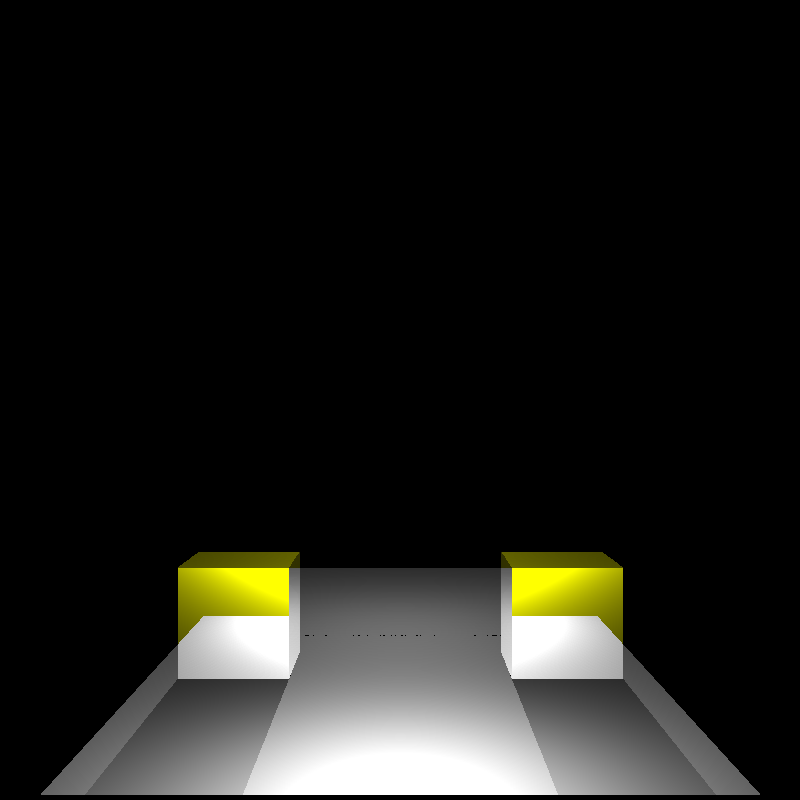
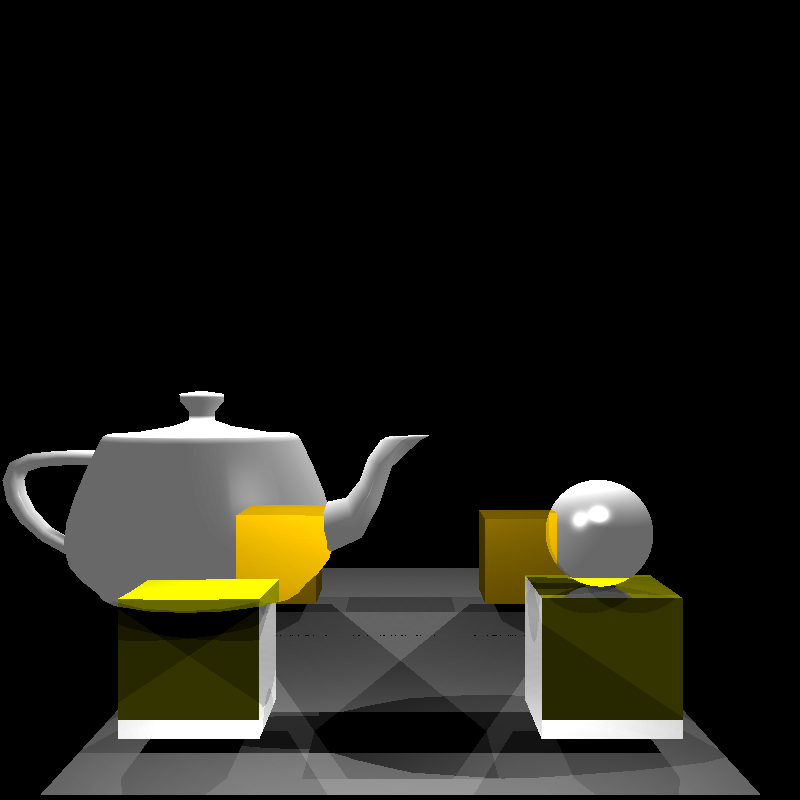
scene-02

Changed region(s): [[0.0, 0.4688, 0.875, 1.0]]

diff --git a/src/aemn/raytracer/Raytracer.java b/src/aemn/raytracer/Raytracer.java
@@ -37,45 +37,44 @@ public class Raytracer {
 		System.out.println(new Date());
 
 		Scene scene01 = new Scene();
-
-		/**************** Scene 01****************/
-		// Scene Configuration
-		scene01.setCamera(new Camera(new Vector3D(0, 0, -8), 160, 160, 800, 800, 0f, 50f));
-		scene01.addLight(new PointLight(new Vector3D(-3, 2.0, 0), new LambertMat(Color.WHITE, 500, 0, 0)));
-		// Scene OBJs
-
-		scene01.addObject(OBJReader.GetPolygon("smallTeapot.obj", new Vector3D(0, -2.5, 1.5),
-				new LambertMat(Color.ORANGE, 0, 5, 0.1f)));
-		scene01.addObject(OBJReader.GetPolygon("panel.obj", new Vector3D(0, -2.5, 1.5),
-				new ReflectiveMat(Color.WHITE, 0, 5, 0.1f)));
-		scene01.addObject(OBJReader.GetPolygon("Cube.obj", new Vector3D(2, -2.5, 1.5),
-				new RefractiveMat(Color.WHITE, 0, 5, 0.1f, 1.5)));
-		// Scene Objects
-		scene01.addObject(
-				new Sphere(new Vector3D(-2.0, -2.0, 1.5), 0.5, new ReflectiveMat(Color.PINK, 0, 15, 0.5f)));
-		scene01.addObject(
-				new Sphere(new Vector3D(2.0, -2.0, 1.5), 0.3, new ReflectiveMat(Color.WHITE, 0, 50, 0.5f)));
-		scene01.addObject(
-				new Sphere(new Vector3D(0.3, -.8, -3), 0.4, new RefractiveMat(Color.WHITE, 0, 5, 0.5f, 1.5)));
-
-		/****************** SCENE FINISH ****************/
-		/**************** Scene 01****************/
+		/**************** Scene 02****************/
 		// Scene Configuration
 		Scene scene02 = new Scene();
 		scene02.setCamera(new Camera(new Vector3D(0, 0, -8), 160, 160, 800, 800, 0f, 50f));
-		scene02.addLight(new PointLight(new Vector3D(0, 1.0, 0), new LambertMat(Color.WHITE, 400, 0, 0)));
-		scene02.addLight(new PointLight(new Vector3D(0, 1.0, 4.5), new LambertMat(Color.WHITE, 400, 0, 0)));
+		//scene02.addLight(new PointLight(new Vector3D(0, 1.0, 5), new LambertMat(Color.WHITE, 400, 0, 0)));
+		
 		// Scene OBJs
 		scene02.addObject(OBJReader.GetPolygon("panel.obj", new Vector3D(0, -2.5, 1),
 				new LambertMat(Color.WHITE, 0, 5, 0.1f)));
 		scene02.addObject(OBJReader.GetPolygon("panel.obj", new Vector3D(0, -2.5, 5.5),
 				new LambertMat(Color.WHITE, 0, 5, 0.1f)));
-		scene02.addObject(OBJReader.GetPolygon("Cube.obj", new Vector3D(-1.5, -2.5, 2),
-				new ReflectiveMat(Color.YELLOW, 0, 5, 0.1f)));
-		scene02.addObject(OBJReader.GetPolygon("Cube.obj", new Vector3D(1.5, -2.5, 2),
-				new ReflectiveMat(Color.YELLOW, 0, 5, 0.1f)));
+		
+		/** First Showroom **/
+		scene02.addLight(new PointLight(new Vector3D(-1.5, 1, 0), new LambertMat(Color.WHITE, 200, 0, 0)));
+		scene02.addObject(OBJReader.GetPolygon("Cube.obj", new Vector3D(-1.5, -2.4, 0),
+				new ReflectiveMat(Color.YELLOW, 0.0, 5.0, 0.1f)));
+		scene02.addObject(OBJReader.GetPolygon("smallTeapot.obj", new Vector3D(-1.5, -1.5, 0),
+				new RefractiveMat(Color.WHITE, 0.0, 75.0, 0.1f, 1.5)));
+		
+		/** Second Showroom **/
+		scene02.addLight(new PointLight(new Vector3D(1.5, 1.0, 0.0), new LambertMat(Color.WHITE, 200, 0, 0)));
+		scene02.addObject(OBJReader.GetPolygon("Cube.obj", new Vector3D(1.5, -2.4, 0),
+				new ReflectiveMat(Color.YELLOW, 0, 5.0, 0.1f)));
+		scene02.addObject(new Sphere(new Vector3D(1.5, -1.0, 0), 0.4, new RefractiveMat(Color.WHITE, 0, 75, 0.1f, 1.5)));
+		
+		/** Third Showroom **/
+		scene02.addLight(new PointLight(new Vector3D(1.5, 1.0, 5), new LambertMat(Color.WHITE, 200, 0, 0)));
+		scene02.addObject(OBJReader.GetPolygon("Cube.obj", new Vector3D(1.5, -2.4, 5),
+				new LambertMat(Color.ORANGE, 0, 5.0, 0.1f)));
+		
+		/** Fourth Showroom **/
+		scene02.addLight(new PointLight(new Vector3D(-1.5, 1, 5), new LambertMat(Color.WHITE, 200, 0, 0)));
+		scene02.addObject(OBJReader.GetPolygon("Cube.obj", new Vector3D(-1.5, -2.4, 5),
+				new LambertMat(Color.ORANGE, 0.0, 5.0, 0.1f)));
+		
+		
 		// Scene Objects
-
+		
 		/****************** SCENE FINISH ****************/
 
 		BufferedImage image = raytrace(scene02);
